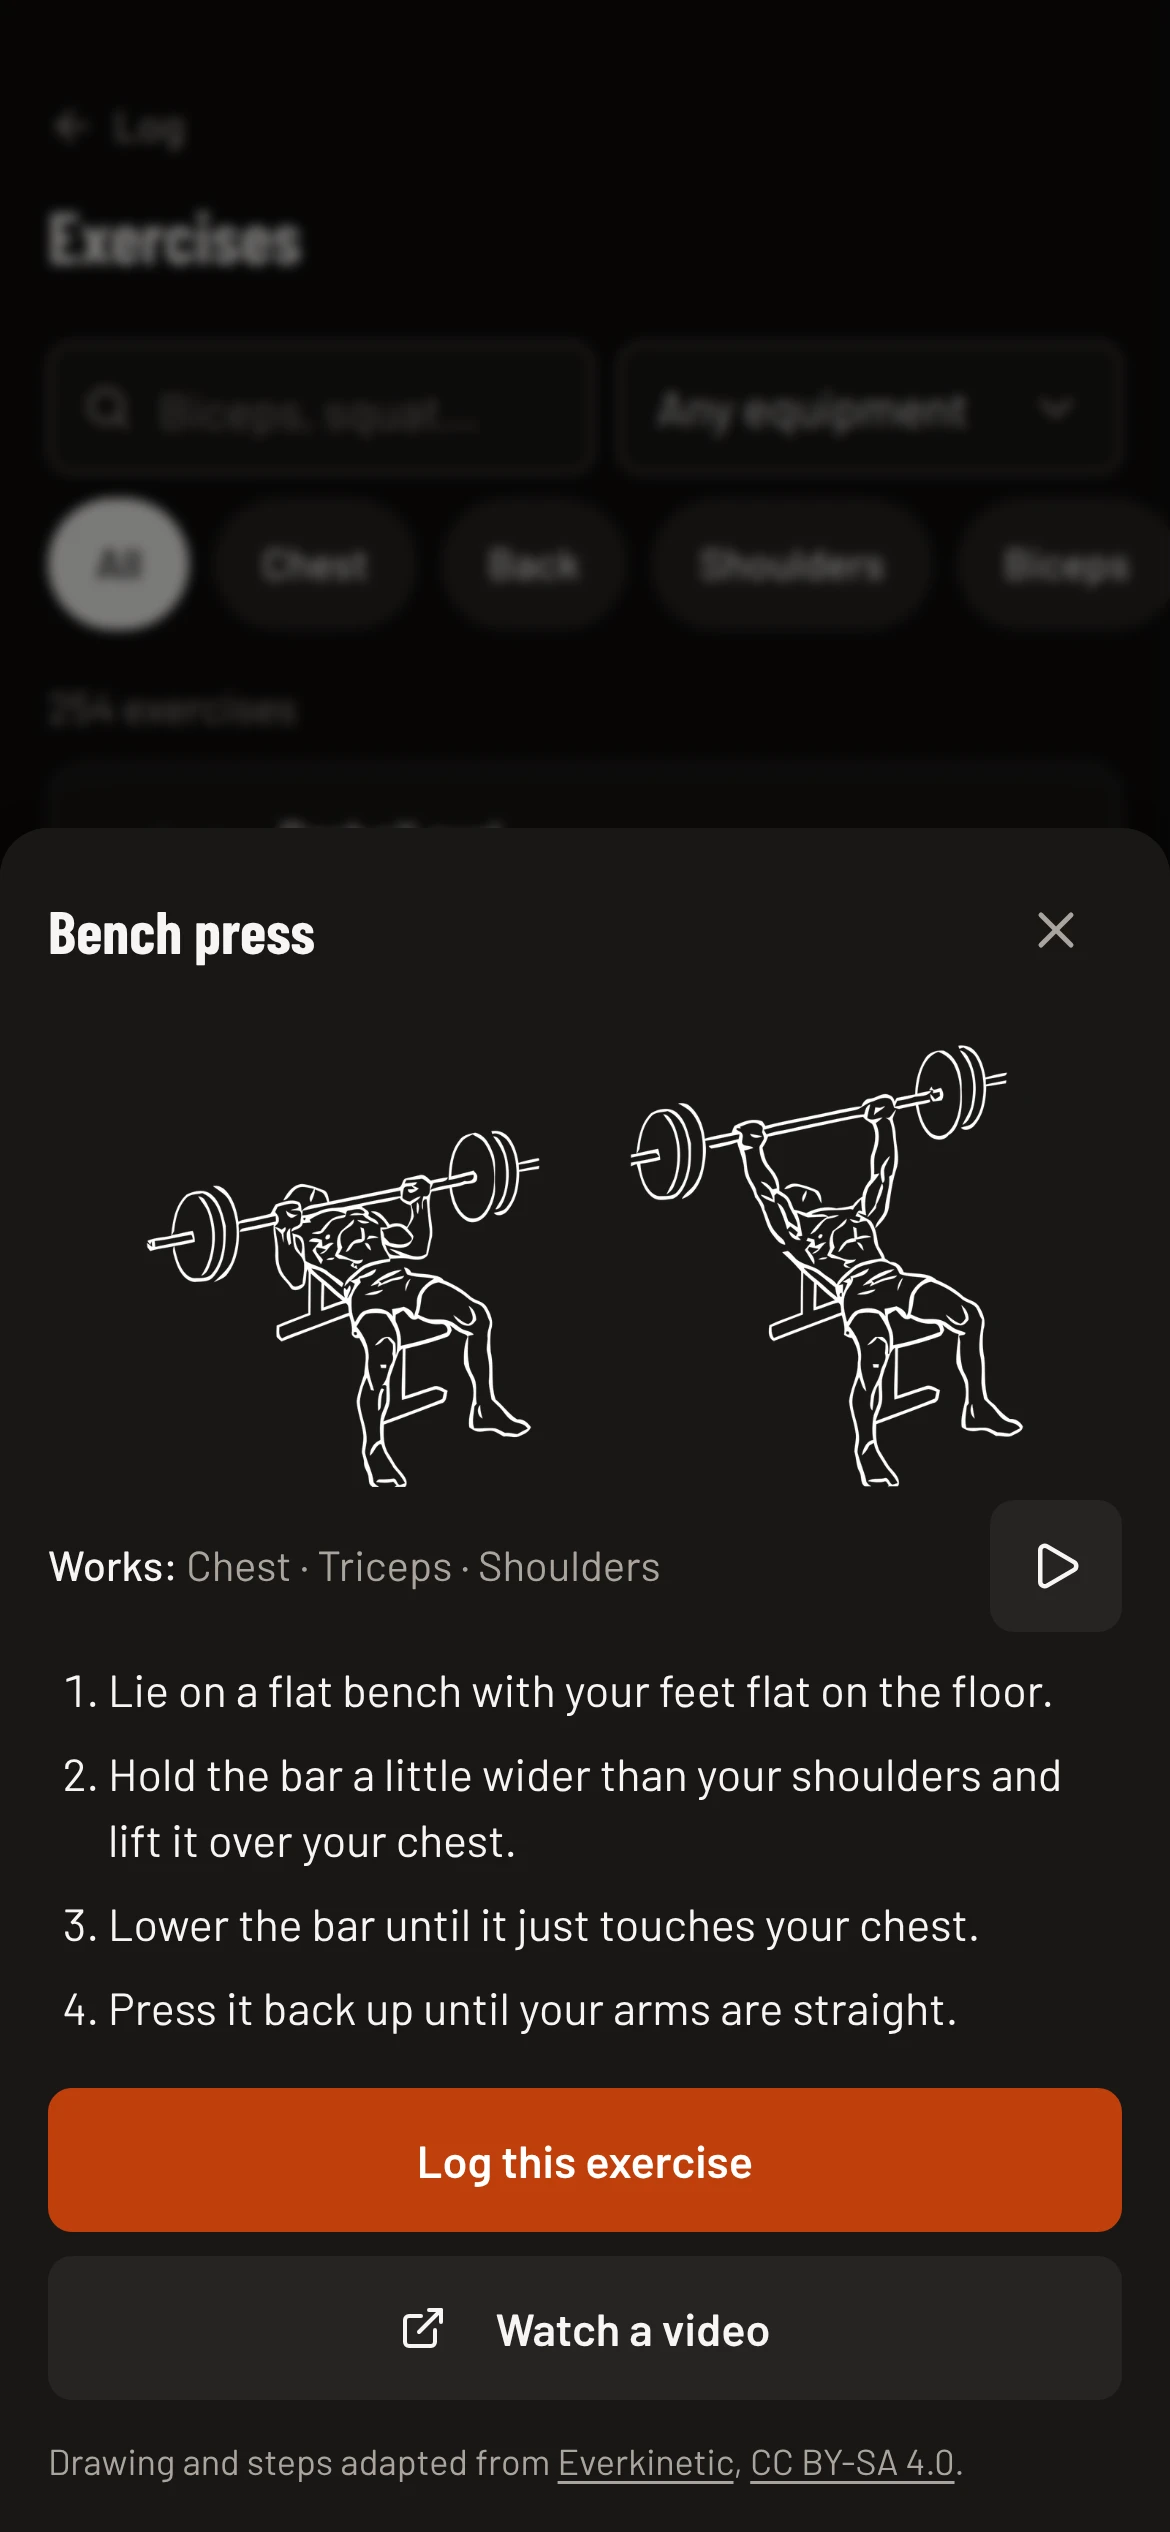
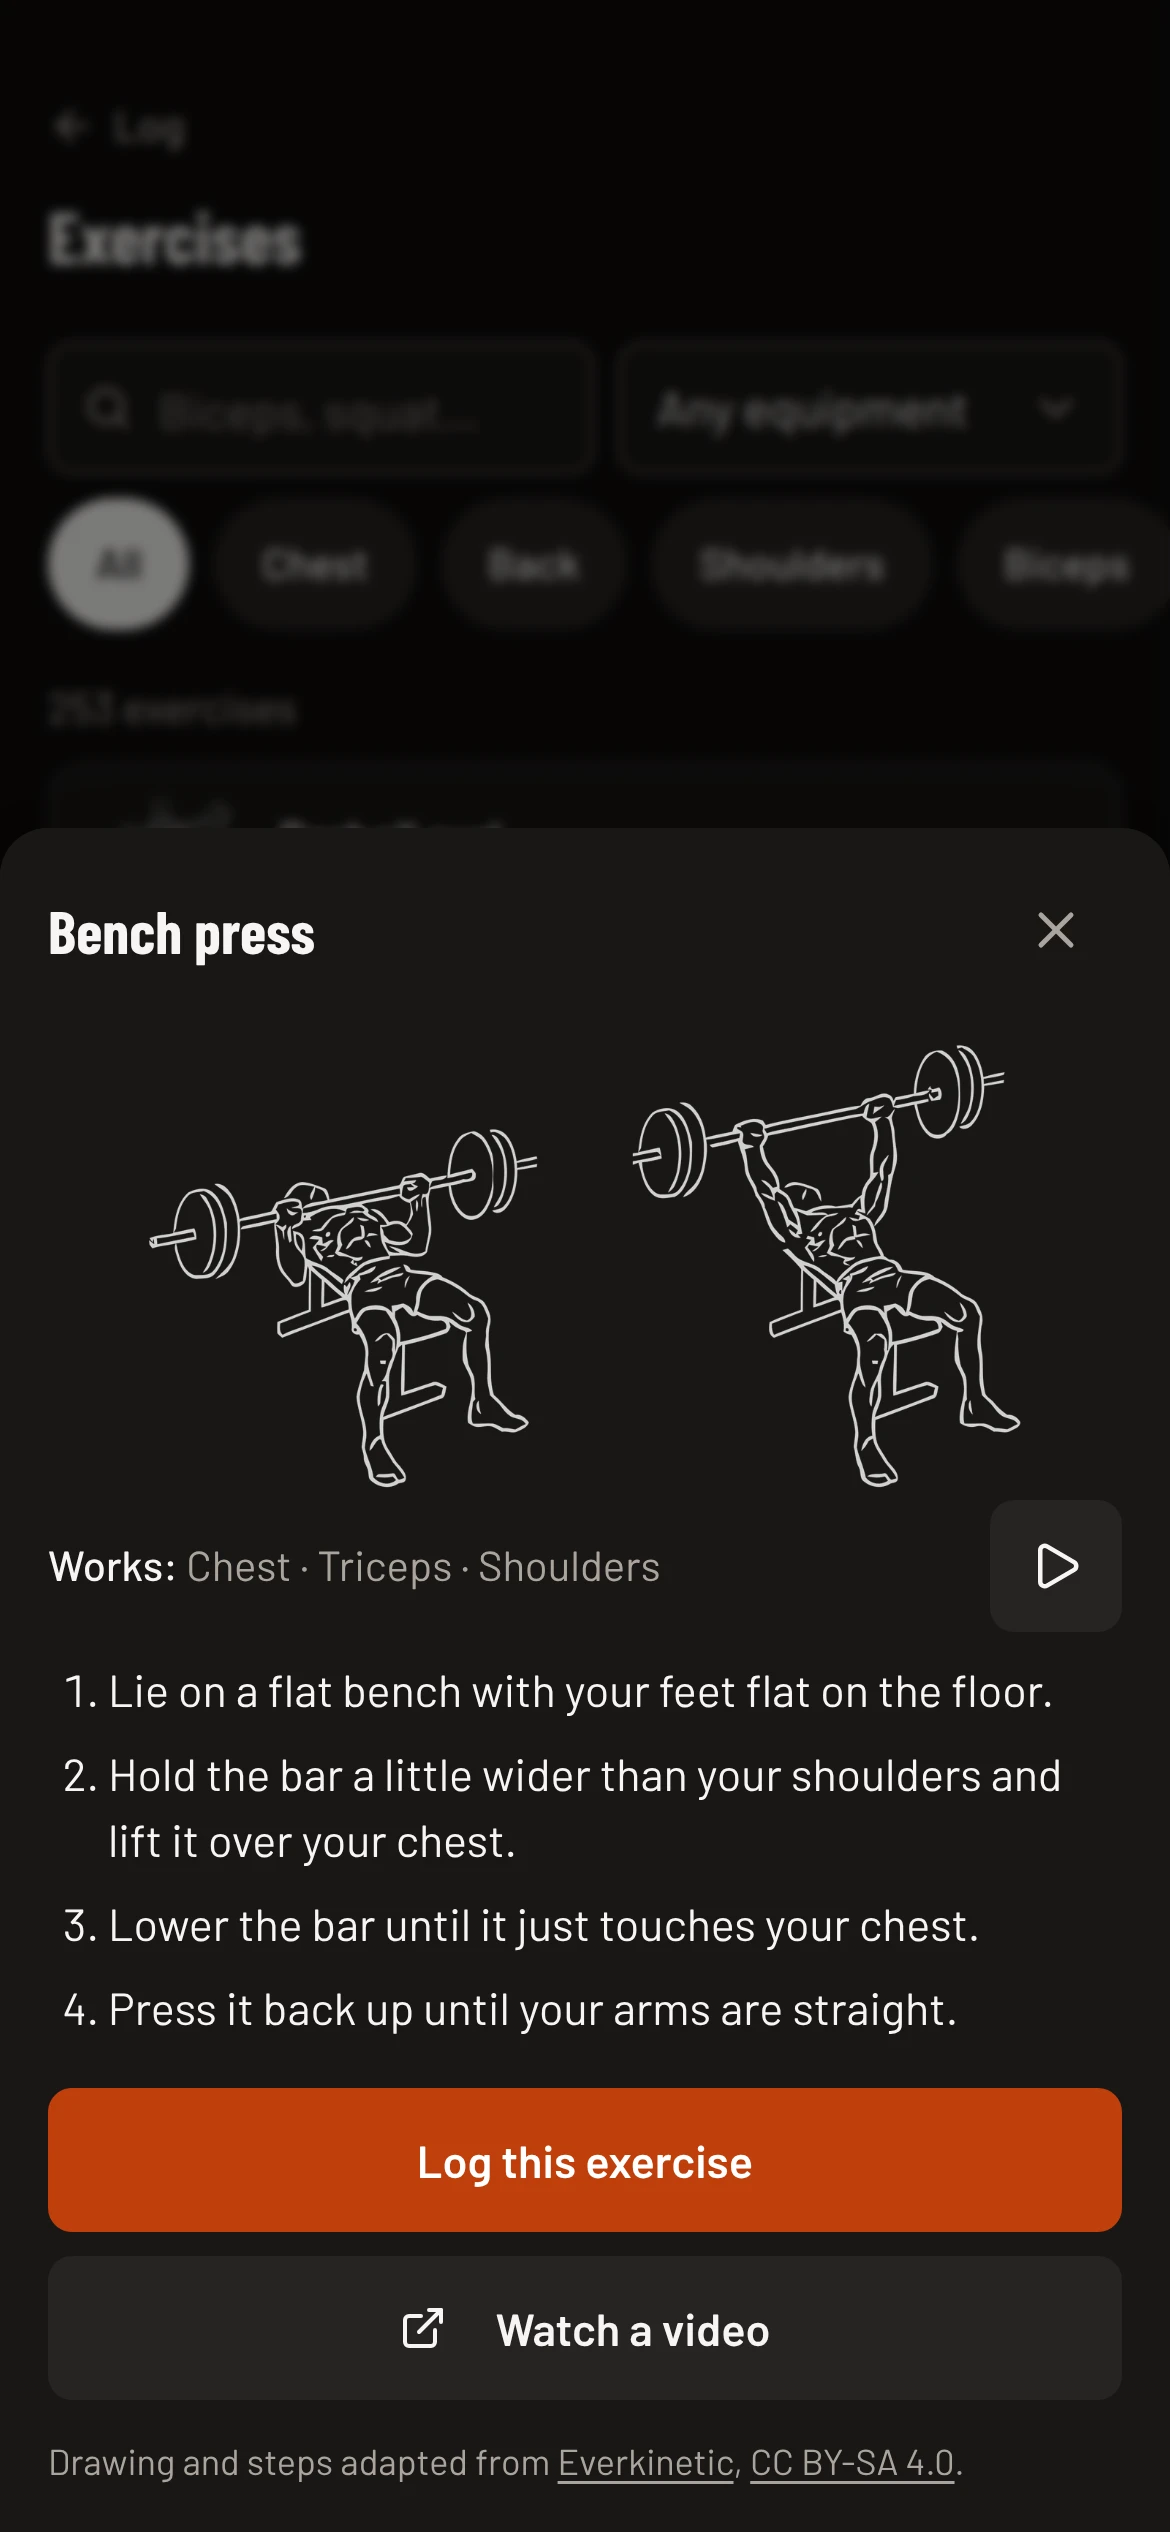
feat(projects): Body Tracker 0.5.2 screenshots and test count
Whole-body drawings in the guide screenshot, 250+ exercises, 107 tests.

Changed region(s): [[0.5231, 0.4368, 0.8615, 0.5928], [0.1231, 0.4368, 0.4615, 0.5928], [0.7692, 0.4056, 0.8615, 0.468]]

diff --git a/src/data/portfolioData.ts b/src/data/portfolioData.ts
@@ -475,7 +475,7 @@ export const projects: Project[] = [
     mediaSrc: '/project/BodyTracker/dashboard.webp',
     problem: 'Fitness logging gets abandoned because it is slow, and gyms have no signal.',
     description:
-      'A phone-first tracker for workouts, meals and body weight that keeps working with no signal. A visitor is in with one tap through a Supabase anonymous account they can save with Google later, logs a set in two taps, looks up how any of 254 exercises is done from drawings of the movement, photographs a meal and confirms the numbers Gemini fills in, and sees weight and strength trends. Every entry is written to IndexedDB on the phone first and synced to Supabase Postgres, where Row Level Security limits each row to its owner. Installable as an app, with a hand-written service worker, and run entirely on free tiers.',
+      'A phone-first tracker for workouts, meals and body weight that keeps working with no signal. A visitor is in with one tap through a Supabase anonymous account they can save with Google later, logs a set in two taps, looks up how any of 250+ exercises is done from drawings of the movement, photographs a meal and confirms the numbers Gemini fills in, and sees weight and strength trends. Every entry is written to IndexedDB on the phone first and synced to Supabase Postgres, where Row Level Security limits each row to its owner. Installable as an app, with a hand-written service worker, and run entirely on free tiers.',
     impact: 'Try it in one tap, log with no signal',
     role: 'Solo — design, build, tests and deployment',
     timeline: 'February 2026 — November 2026',
@@ -506,7 +506,7 @@ export const projects: Project[] = [
     outcomes: [
       { value: '85', label: 'Lighthouse performance, mobile' },
       { value: '0', label: 'Accessibility violations, 10 screens, 2 themes' },
-      { value: '105', label: 'Unit, RLS and browser tests in CI' },
+      { value: '107', label: 'Unit, RLS and browser tests in CI' },
     ],
     tech: ['Next.js 16', 'React 19', 'TypeScript', 'Supabase Auth', 'Postgres RLS', 'IndexedDB', 'Service Worker', 'Gemini API', 'Playwright'],
     github: 'https://github.com/Zebbb01/Workout-Tracker',
@@ -781,7 +781,7 @@ export const projectScreenshots: Record<string, Screenshot[]> = {
     { src: '/project/BodyTracker/dashboard.webp', caption: 'Today on a desktop: calories and macros left, what was eaten, today’s sets and the weight trend.' },
     { src: '/project/BodyTracker/dashboard-phone.webp', caption: 'Today on a phone, above the bottom tabs: the whole day on one screen.' },
     { src: '/project/BodyTracker/workout.webp', caption: 'The workout log: the next set starts as a copy of the last one, so logging it is one more tap.' },
-    { src: '/project/BodyTracker/guide-phone.webp', caption: 'The exercise guide: 254 exercises found by body part or plain words, each drawn in two positions, with short steps and one tap to log it. Drawings adapted from Everkinetic, CC BY-SA 4.0.' },
+    { src: '/project/BodyTracker/guide-phone.webp', caption: 'The exercise guide: 250+ exercises found by body part or plain words, each drawn in two positions, with short steps and one tap to log it. Drawings adapted from Everkinetic, CC BY-SA 4.0.' },
     { src: '/project/BodyTracker/progress.webp', caption: 'Progress: weight over 90 days, strength as the best estimated one-rep max, and weekly volume, each with a table view.' },
   ],
   LedgerLens: [
